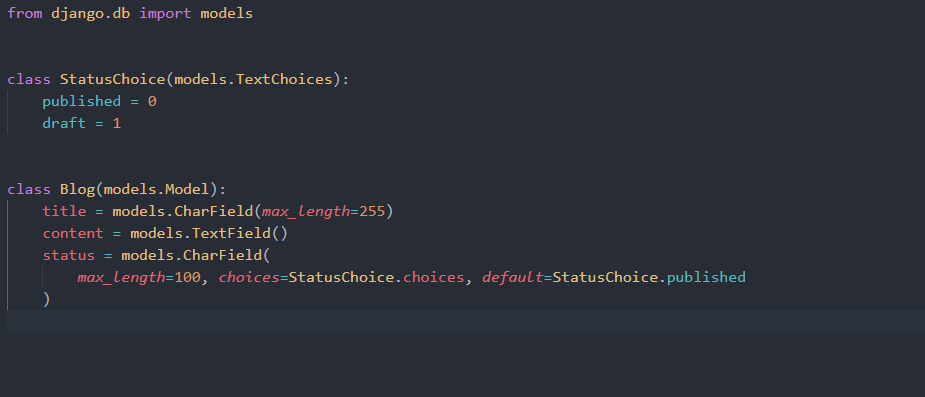
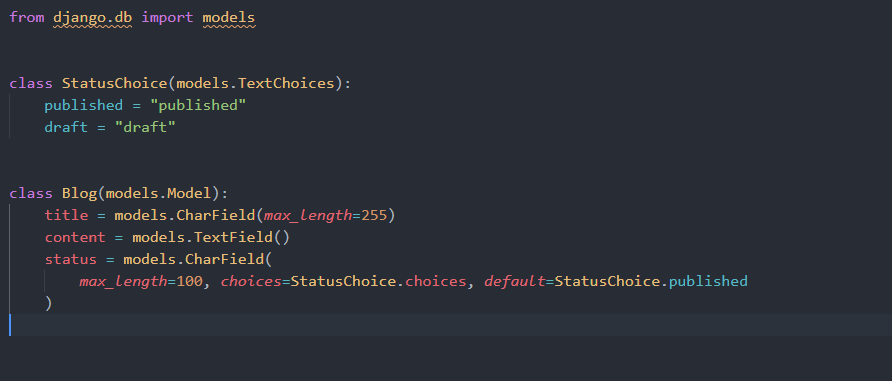
cookiecutter

diff --git a/{{cookiecutter.project_name}}/{{cookiecutter.package_name}}/code_generator/src/generators/model.py b/{{cookiecutter.project_name}}/{{cookiecutter.package_name}}/code_generator/src/generators/model.py
@@ -2,11 +2,10 @@ import shutil
 import sys
 from pathlib import Path
 from typing import List
-
 import libcst as cst
-from consts import GENERATED, SOURCE
 from django.apps import apps
 from rich import print
+from consts import GENERATED, SOURCE
 
 field_map = {
     "str": "models.CharField(max_length=255)",
@@ -15,6 +14,9 @@ field_map = {
     "int": "models.IntegerField(default=0)",
     "float": "models.FloatField(default=0.0)",
     "bool": "models.BooleanField(default=False)",
+    "slug": "models.SlugField(max_length=10)",
+    "update": "models.DateTimeField(auto_now=True)",
+    "create": "models.DateTimeField(auto_now_add=True)",
 }
 
 
@@ -35,7 +37,7 @@ class ChoiceTransformer(cst.CSTTransformer):
     ) -> cst.BaseSuite:
         newbody = []
         for idx, field in enumerate(self.choice_field["values"]):
-            fi = cst.parse_statement(f"{field} = {idx}")
+            fi = cst.parse_statement(f"{field} = '{field}'")
             newbody.append(fi)
         return updated_node.with_changes(body=newbody)
 
@@ -51,7 +53,15 @@ class ModelTransormer(cst.CSTTransformer):
     ) -> cst.BaseSuite:
         newbody = []
         for field in self.fields:
-            if field["field_type"] in ["str", "text", "int", "float", "bool"]:
+            if field["field_type"] in [
+                "str",
+                "text",
+                "int",
+                "float",
+                "bool",
+                "update",
+                "create",
+            ]:
                 name = field["name"]
                 dj_field = field["dj_field"]
                 fi = cst.parse_statement(f"{name} = {dj_field}")
@@ -129,7 +139,7 @@ class ModelGenerator:
             dj_field = field_map.get(field_type)
             if not dj_field:
                 print(
-                    f"[bold red]No django field type found.'{field}' is not valid field. Valid name is[/bold red][bold green] name.type [/bold green] [bold red] valid types are {field_map.keys()} [/bold red]"
+                    f"[bold red]No django field type found.'{field}' is not valid field. Valid name is[/bold red][bold green] name:type [/bold green] [bold red] valid types are {list(field_map.keys())} [/bold red]"
                 )
                 sys.exit()
             return {

diff --git a/README.md b/README.md
@@ -38,13 +38,12 @@ cookiecutter https://github.com/FarhanAliRaza/djinn
 Configure your project
 
 ```
-  [1/7] Project name for your package etc (Djinn): my-backend
-  [2/7] Parent folder in which your project files will be created (my-backend):
-  [3/7] Folder that will have your django project files and will be the parent python package (my-backend): reddit
-  [4/7] Short descriptions of your package (): my next billion dollar idea api
-  [5/7] use_github_actions [y/n] (y):
-  [6/7] use_celery [y/n] (y):
-  [7/7] author (John Smith <john@example.com>):
+[1/6] Directory name in which files will be created (backend_api):
+[2/6] Parent python package name for all reltive imports and also host all django apps. (backend_api):
+[3/6] Short descriptions of your package ():
+[4/6] use_github_actions [y/n] (y):
+[5/6] use_celery [y/n] (y):
+[6/6] author (Farhan Ali <farhanalirazaazeemi@gmail.com>):
 ```
 
 Install poetry
